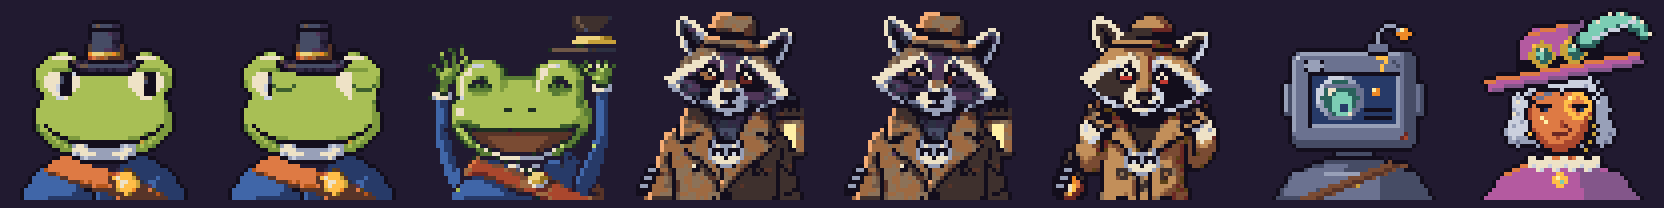
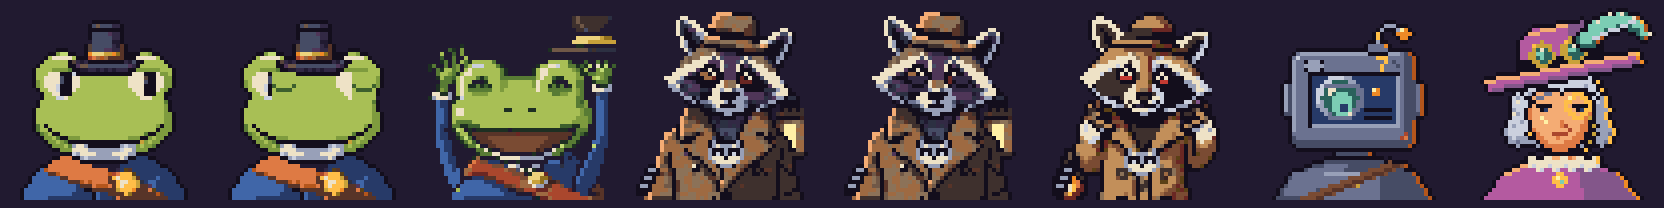
Unit 7 and Dame Voltaire redrawn in Lantern Bayou; a 24 px Committee drawn for its size
Unit 7's and Voltaire's portraits and cheers are their own hand-drawn recipes run again with the
palette fitted to B by role (cast_draw.py), not recoloured by nearest colour: Voltaire's skin is
the peach-over-terracotta she was drawn with, Unit 7 keeps its screen face and gets B's five-step
steel. Both catch the lantern: a warm rim light on their right-hand edge. The Committee's small
portrait is hand-drawn at 24x24: the top raccoon's mask under the fedora, a second masked face
between the coat's lapels, the third one's ringed tail out of the hem.

diff --git a/pixel-art/revamp/cast_draw.py b/pixel-art/revamp/cast_draw.py
@@ -1,0 +1,122 @@
+"""Unit 7's and Dame Voltaire's portraits and cheers, redrawn in Lantern Bayou from their own
+hand-drawn recipes (pixel-art/ui/portraits.py, pixel-art/m4/cheers.py: every part, outline and
+pose stays theirs), with the palette fitted to B by role, not by nearest colour:
+
+- Voltaire's skin goes back to what it was drawn as, a peach light over terracotta (A's copper2 is
+  B's copper3, A's copper1 is between B's copper1 and copper2), so she is not orange;
+- Unit 7's steel uses B's five-step steel ramp, its screen the deep iron blue, the lens teal.
+
+Those recipes read the old palette module, so this script runs them against a stand-in `common`
+module (the same helpers, B colours) and writes their frames to raw/cast/ for portraits.py to
+finish (the lantern rim light, the blink, the small versions) and export.
+Run from this folder: python cast_draw.py"""
+import math
+import sys
+import types
+from pathlib import Path
+
+from PIL import Image
+
+HERE = Path(__file__).resolve().parent
+ROOT = HERE.parents[1]
+sys.path.insert(0, str(Path.home() / ".claude/skills/pixel-art-studio/scripts"))
+from pixelstudio import Sprite  # noqa: E402
+
+import pal  # noqa: E402
+
+B = pal.B
+# palette A's slot names -> the B colour each plays in these portraits
+ROLE = dict(pal.ROLES)
+ROLE.update({
+    "copper0": B["copper1"], "copper1": B["copper2"], "copper2": B["copper3"],   # skin, peach
+    "slag": B["slag1"], "gold": B["lamp2"], "hot": B["lamp3"], "glow": B["lamp1"],
+})
+ART = list(B.values())
+KEY = {
+    ".": None, "k": ROLE["ink"], "s": ROLE["shadow"], "b": ROLE["bone"],
+    "d": ROLE["ground0"], "W": ROLE["ground1"], "w": ROLE["ground2"],
+    "0": ROLE["hull0"], "1": ROLE["hull1"], "2": ROLE["hull2"], "3": ROLE["hull3"],
+    "i": ROLE["iron0"], "I": ROLE["iron1"], "J": ROLE["iron2"],
+    "c": ROLE["copper0"], "C": ROLE["copper1"], "p": ROLE["copper2"],
+    "x": ROLE["slag"], "y": ROLE["brass0"], "Y": ROLE["brass1"], "o": ROLE["glow"], "H": ROLE["hot"],
+    "t": ROLE["teal0"], "T": ROLE["teal1"], "m": ROLE["moss"], "l": ROLE["leaf"], "v": ROLE["violet"],
+    "g": ROLE["gold"],
+}
+
+
+def new(w, h, n=1):
+    s = Sprite(w, h, palette=ART)
+    for _ in range(n - 1):
+        s.add_frame(copy=False)
+    s.frame(1)
+    return s
+
+
+def ascii_(s, x0, y0, rows, key=None, only=None):
+    key = key or KEY
+    for j, row in enumerate(rows):
+        for i, ch in enumerate(row):
+            if ch in ". ":
+                continue
+            s.px(x0 + i, y0 + j, key[ch], only=only)
+
+
+def ell(s, cx, cy, rx, ry, color, only=None):
+    for y in range(int(cy - ry) - 1, int(cy + ry) + 2):
+        for x in range(int(cx - rx) - 1, int(cx + rx) + 2):
+            dx = (x + 0.5 - cx) / max(rx, 0.01)
+            dy = (y + 0.5 - cy) / max(ry, 0.01)
+            if dx * dx + dy * dy <= 1.0:
+                s.px(x, y, color, only=only)
+
+
+def ring(s, cx, cy, r0, r1, color, only=None):
+    for y in range(int(cy - r1) - 1, int(cy + r1) + 2):
+        for x in range(int(cx - r1) - 1, int(cx + r1) + 2):
+            d = math.hypot(x + 0.5 - cx, y + 0.5 - cy)
+            if r0 < d <= r1:
+                s.px(x, y, color, only=only)
+
+
+def _unused(*a, **k):
+    raise RuntimeError("not used here")
+
+
+shim = types.ModuleType("common")
+shim.P, shim.KEY, shim.new, shim.ascii_, shim.ell, shim.ring = ROLE, KEY, new, ascii_, ell, ring
+shim.export = shim.sheet = shim.up = shim.frame_of = _unused
+shim.OUT = HERE / "out"
+sys.modules["common"] = shim
+sys.modules["common_m4"] = shim
+
+
+def load(path):
+    g = {"__name__": "old_" + path.stem, "__file__": str(path)}
+    exec(compile(path.read_text(encoding="utf-8"), str(path), "exec"), g)
+    return g
+
+
+def frames(s):
+    return [s.composite(i + 1) for i in range(s.n_frames)]
+
+
+def main():
+    out = HERE / "raw" / "cast"
+    out.mkdir(parents=True, exist_ok=True)
+    por = load(ROOT / "pixel-art" / "ui" / "portraits.py")
+    che = load(ROOT / "pixel-art" / "m4" / "cheers.py")
+    for who in ("unit7", "voltaire"):
+        s = new(48, 48, 2)
+        for f in range(2):
+            s.frame(f + 1)
+            por[who](s, blink=(f == 1))
+        for i, im in enumerate(frames(s)):
+            im.save(out / f"{who}_{i}.png")
+        cs = che["build"](che[f"{who}_cheer"])
+        for i, im in enumerate(frames(cs)):
+            im.save(out / f"{who}_cheer_{i}.png")
+    print("cast frames ->", out)
+
+
+if __name__ == "__main__":
+    main()

diff --git a/pixel-art/revamp/portraits.py b/pixel-art/revamp/portraits.py
@@ -4,13 +4,34 @@ top of a bounce, 1 px up) and a 24x24 small version.
 Bramble: PixelLab img2img over his Milestone 1 portrait (same face, richer shading), cheer the
 same over his cheer. The Committee: PixelLab's raccoon in a fedora and trench coat, and the gag
 finished by hand: a second raccoon peeking between the lapels and a third one's ringed tail out
-of the hem (three raccoons, one coat). Unit 7 and Dame Voltaire keep their hand-drawn portraits,
-recoloured into Lantern Bayou (img2img lost Unit 7's screen face and changed Voltaire's skin)."""
+of the hem (three raccoons, one coat); its 24 px version is drawn for its size
+(committee_small.py). Unit 7 and Dame Voltaire are their hand-drawn recipes redrawn in B by role
+(cast_draw.py: Voltaire's peach skin, Unit 7's screen face and five-step steel), with the lantern
+rim light on their right edge (img2img had lost Unit 7's screen face and changed Voltaire's skin)."""
 from PIL import Image
 
-from common import P, RAW, SRC_ART, new, draw, export, snap, from_rows, get, halve, rgb, OUT, scale, on_bg
+from common import P, RAW, SRC_ART, new, draw, export, snap, from_rows, get, halve, rgb, OUT, scale, on_bg, lum
+from committee_small import committee_small
 
 PR = RAW / "portraits"
+INK_RGB = rgb(P["ink"])
+
+
+def rim(im, warm=(P["lamp0"], P["lamp1"], P["lamp2"])):
+    """The lantern's rim light: the last pixel inside the right-hand outline turns warm (dark
+    pixels to lamp0, mid to lamp1, light to lamp2), as if a lantern hung just off the card."""
+    out = im.copy()
+    a = im.load()
+    w, h = im.size
+    for y in range(h):
+        for x in range(w - 2):
+            p = a[x, y]
+            if not p[3] or p[:3] == INK_RGB:
+                continue
+            if a[x + 1, y][3] and a[x + 1, y][:3] == INK_RGB and not a[x + 2, y][3]:
+                L = lum(p)
+                draw(out, [(x, y)], warm[0 if L < 90 else 1 if L < 160 else 2])
+    return out
 
 
 def load(p):
@@ -98,13 +119,18 @@ def build():
     export("portrait_committee", [c, c_blink])
     cc = committee_extras(load(PR / "committee_cheer.png"), (19, 35), (1, 39))
     export("portrait_committee_cheer", [cc, bounce(cc)])
-    export("portrait_committee_small", [small(c, 0, 1)])
-    # Unit 7 and Dame Voltaire: their own portraits (recoloured), plus small versions
+    export("portrait_committee_small", [committee_small()])
+    # Unit 7 and Dame Voltaire: their own recipes redrawn in B (cast_draw.py), lit by the lantern
+    cast = {}
     for who in ("unit7", "voltaire"):
-        fr = old(f"portrait_{who}")
+        fr = [rim(Image.open(RAW / "cast" / f"{who}_{i}.png").convert("RGBA")) for i in range(2)]
+        ch = [rim(Image.open(RAW / "cast" / f"{who}_cheer_{i}.png").convert("RGBA")) for i in range(2)]
+        export(f"portrait_{who}", fr)
+        export(f"portrait_{who}_cheer", ch, 4)
         export(f"portrait_{who}_small", [small(fr[0])])
+        cast[who] = fr[0]
     look = new(52 * 8, 52)
-    ims = [b, b_blink, bc, c, c_blink, cc, old("portrait_unit7")[0], old("portrait_voltaire")[0]]
+    ims = [b, b_blink, bc, c, c_blink, cc, cast["unit7"], cast["voltaire"]]
     for i, im in enumerate(ims):
         look.alpha_composite(im, (i * 52 + 2, 2))
     scale(on_bg(look, P["ink1"]), 4).save(OUT / "portraits_look@4x.png")

diff --git a/pixel-art/revamp/committee_small.py b/pixel-art/revamp/committee_small.py
@@ -1,0 +1,44 @@
+"""The Committee at 24x24, drawn for its size (not halved): the top raccoon's masked face under a
+fedora, the trench coat's lapels parted on a second masked face, and a third one's ringed tail
+out of the hem at the bottom left. Three raccoons, one coat, readable in a list row.
+python committee_small.py writes out/committee_small@8x.png for a look; portraits.py exports it."""
+from common import P, from_rows, OUT, scale, on_bg
+
+ROWS = [
+    "........................",
+    ".........kkkkkk.........",
+    "........kHHHHHHk........",
+    "........kHhhhhhk........",
+    ".......kbbbbbbbbk.......",
+    ".....kkHHHHHHHHHHkk.....",
+    "....kkkkkkkkkkkkkkkk....",
+    "....kdkGGGGGGGGGGkdk....",
+    "....kkGwwwGGGGwwwgkk....",
+    ".....kmmmmmGGmmmmmk.....",
+    ".....kmwkmmggmmkwmk.....",
+    ".....kgmmmgwwgmmmgk.....",
+    "......kggwwwwwwggk......",
+    ".......kkgwwkwwgkk......",
+    ".....kkCkkgwwgkkckk.....",
+    "....kCCCkdkkkkdkcck.....",
+    "...kCCCCkgwggwgkccck....",
+    "..kCCCCCkmmmmmmkcccck...",
+    "kGkCCCCCkmwmmwmkcccck...",
+    "kdkCCCCCkggwwggkcccck...",
+    "kgGkCCCCkkgkkgkkcccck...",
+    "kddkCCCCCkkkkkkcccccck..",
+    "kgGkCCCCCCkcccccccccck..",
+    "kdkkkkkkkkkkkkkkkkkkkk..",
+]
+KEY = {"k": P["ink"], "G": P["steel4"], "g": P["steel3"], "d": P["steel1"], "w": P["bone"],
+       "m": P["ink1"], "H": P["wood2"], "h": P["wood1"], "b": P["ink2"], "C": P["wood4"],
+       "c": P["wood3"]}
+
+
+def committee_small():
+    assert all(len(r) == 24 for r in ROWS) and len(ROWS) == 24
+    return from_rows(ROWS, KEY)
+
+
+if __name__ == "__main__":
+    scale(on_bg(committee_small(), P["ink1"]), 8).save(OUT / "committee_small@8x.png")

diff --git a/pixel-art/revamp/proto_rim.py b/pixel-art/revamp/proto_rim.py
@@ -1,0 +1,35 @@
+"""Prototype: the lantern rim light on the cast portraits (raw/cast) -> out/proto_rim@4x.png."""
+from PIL import Image
+from common import P, rgb, lum, draw, OUT, scale, on_bg, RAW
+
+INK = rgb(P["ink"])
+
+
+def rim(im, warm=(P["lamp0"], P["lamp1"], P["lamp2"]), rows=48):
+    out = im.copy()
+    a = im.load()
+    w, h = im.size
+    pts = {0: [], 1: [], 2: []}
+    for y in range(rows):
+        for x in range(w - 2):
+            p = a[x, y]
+            if not p[3] or p[:3] == INK:
+                continue
+            if a[x + 1, y][:3] == INK and a[x + 1, y][3] and (x + 2 >= w or not a[x + 2, y][3]):
+                L = lum(p)
+                pts[0 if L < 90 else 1 if L < 160 else 2].append((x, y))
+    for k, v in pts.items():
+        draw(out, v, warm[k])
+    return out
+
+
+if __name__ == "__main__":
+    ims = []
+    for n in ("unit7_0", "unit7_cheer_0", "voltaire_0", "voltaire_cheer_0"):
+        im = Image.open(RAW / "cast" / f"{n}.png").convert("RGBA")
+        old = Image.open(RAW / "old" / f"portrait_{n.split('_0')[0]}.png").convert("RGBA").crop((0, 0, 48, 48))
+        ims += [old, im, rim(im)]
+    sheet = Image.new("RGBA", (len(ims) * 50, 50))
+    for i, im in enumerate(ims):
+        sheet.alpha_composite(im, (i * 50 + 1, 1))
+    scale(on_bg(sheet, P["ink1"]), 3).save(OUT / "proto_rim@3x.png")

diff --git a/pixel-art/revamp/common.py b/pixel-art/revamp/common.py
@@ -227,7 +227,7 @@ def export(name, rows, fps=0, anchor=(0, 0), facings=None, extra=None, check=Tru
         meta.update(extra)
     for d in ([OUT, SRC_ART] if to_src else [OUT]):
         img.save(d / f"{name}.png")
-        (d / f"{name}.json").write_text(json.dumps(meta) + "\n")
+        (d / f"{name}.json").write_text(json.dumps(meta) + "\n", newline="\n")
     scale(on_bg(img, P["wood2"]), 4).save(OUT / f"{name}@4x.png")
     return img
 
